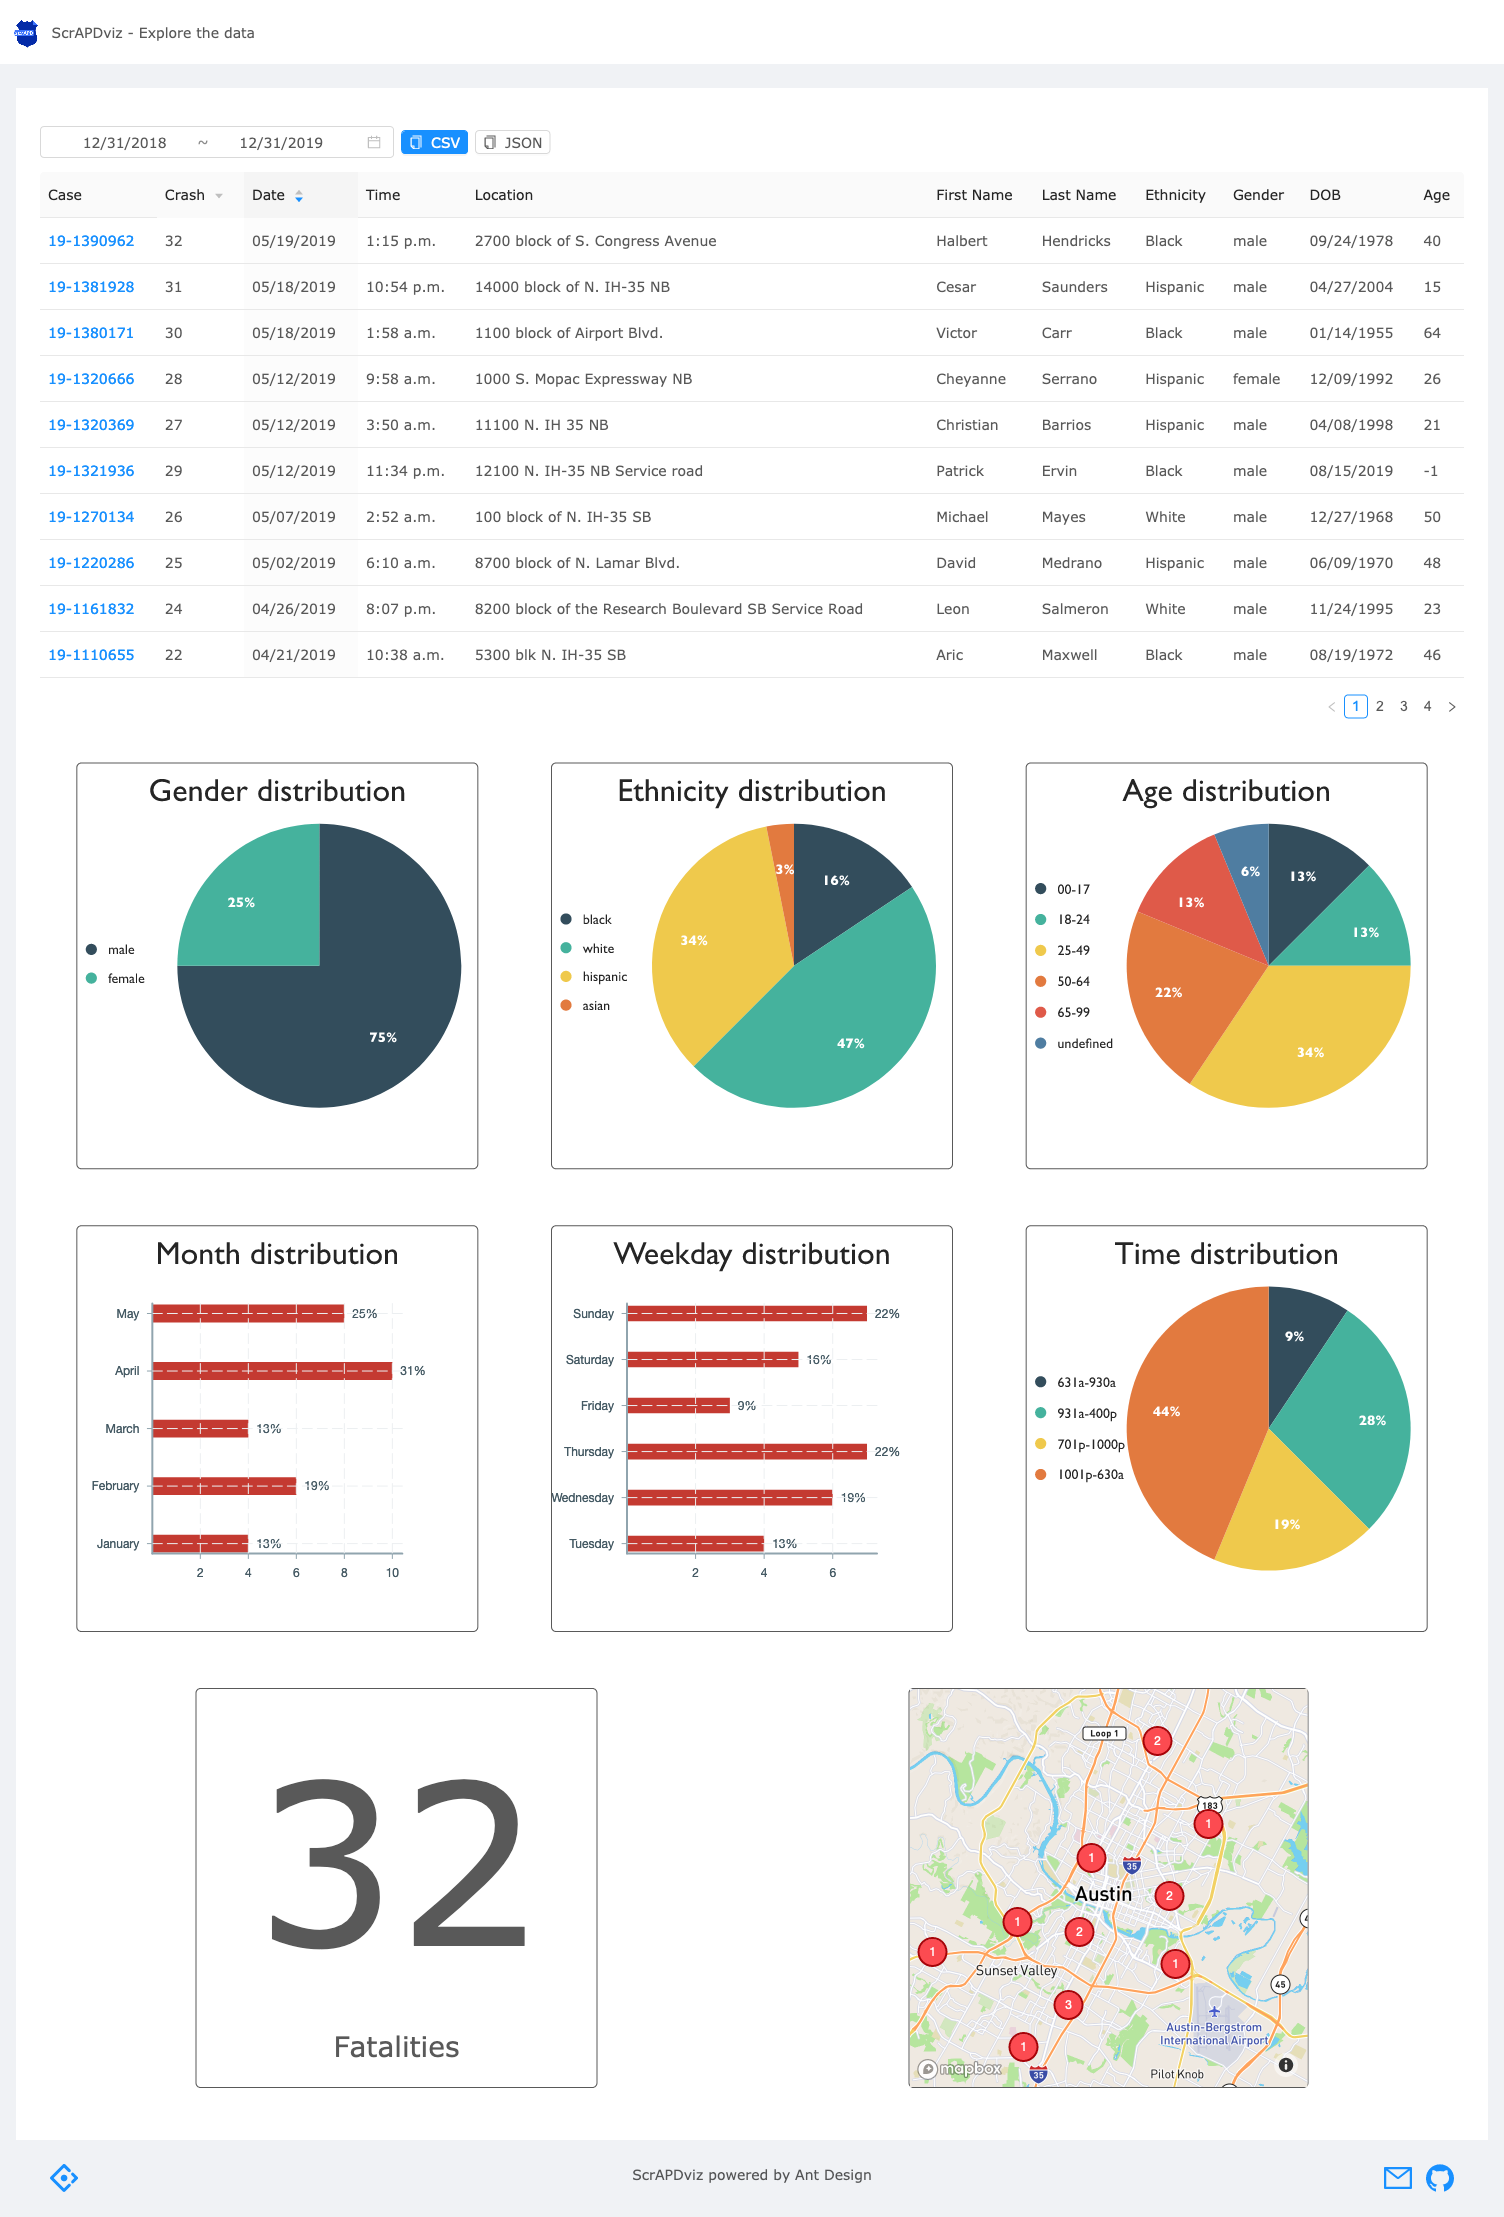
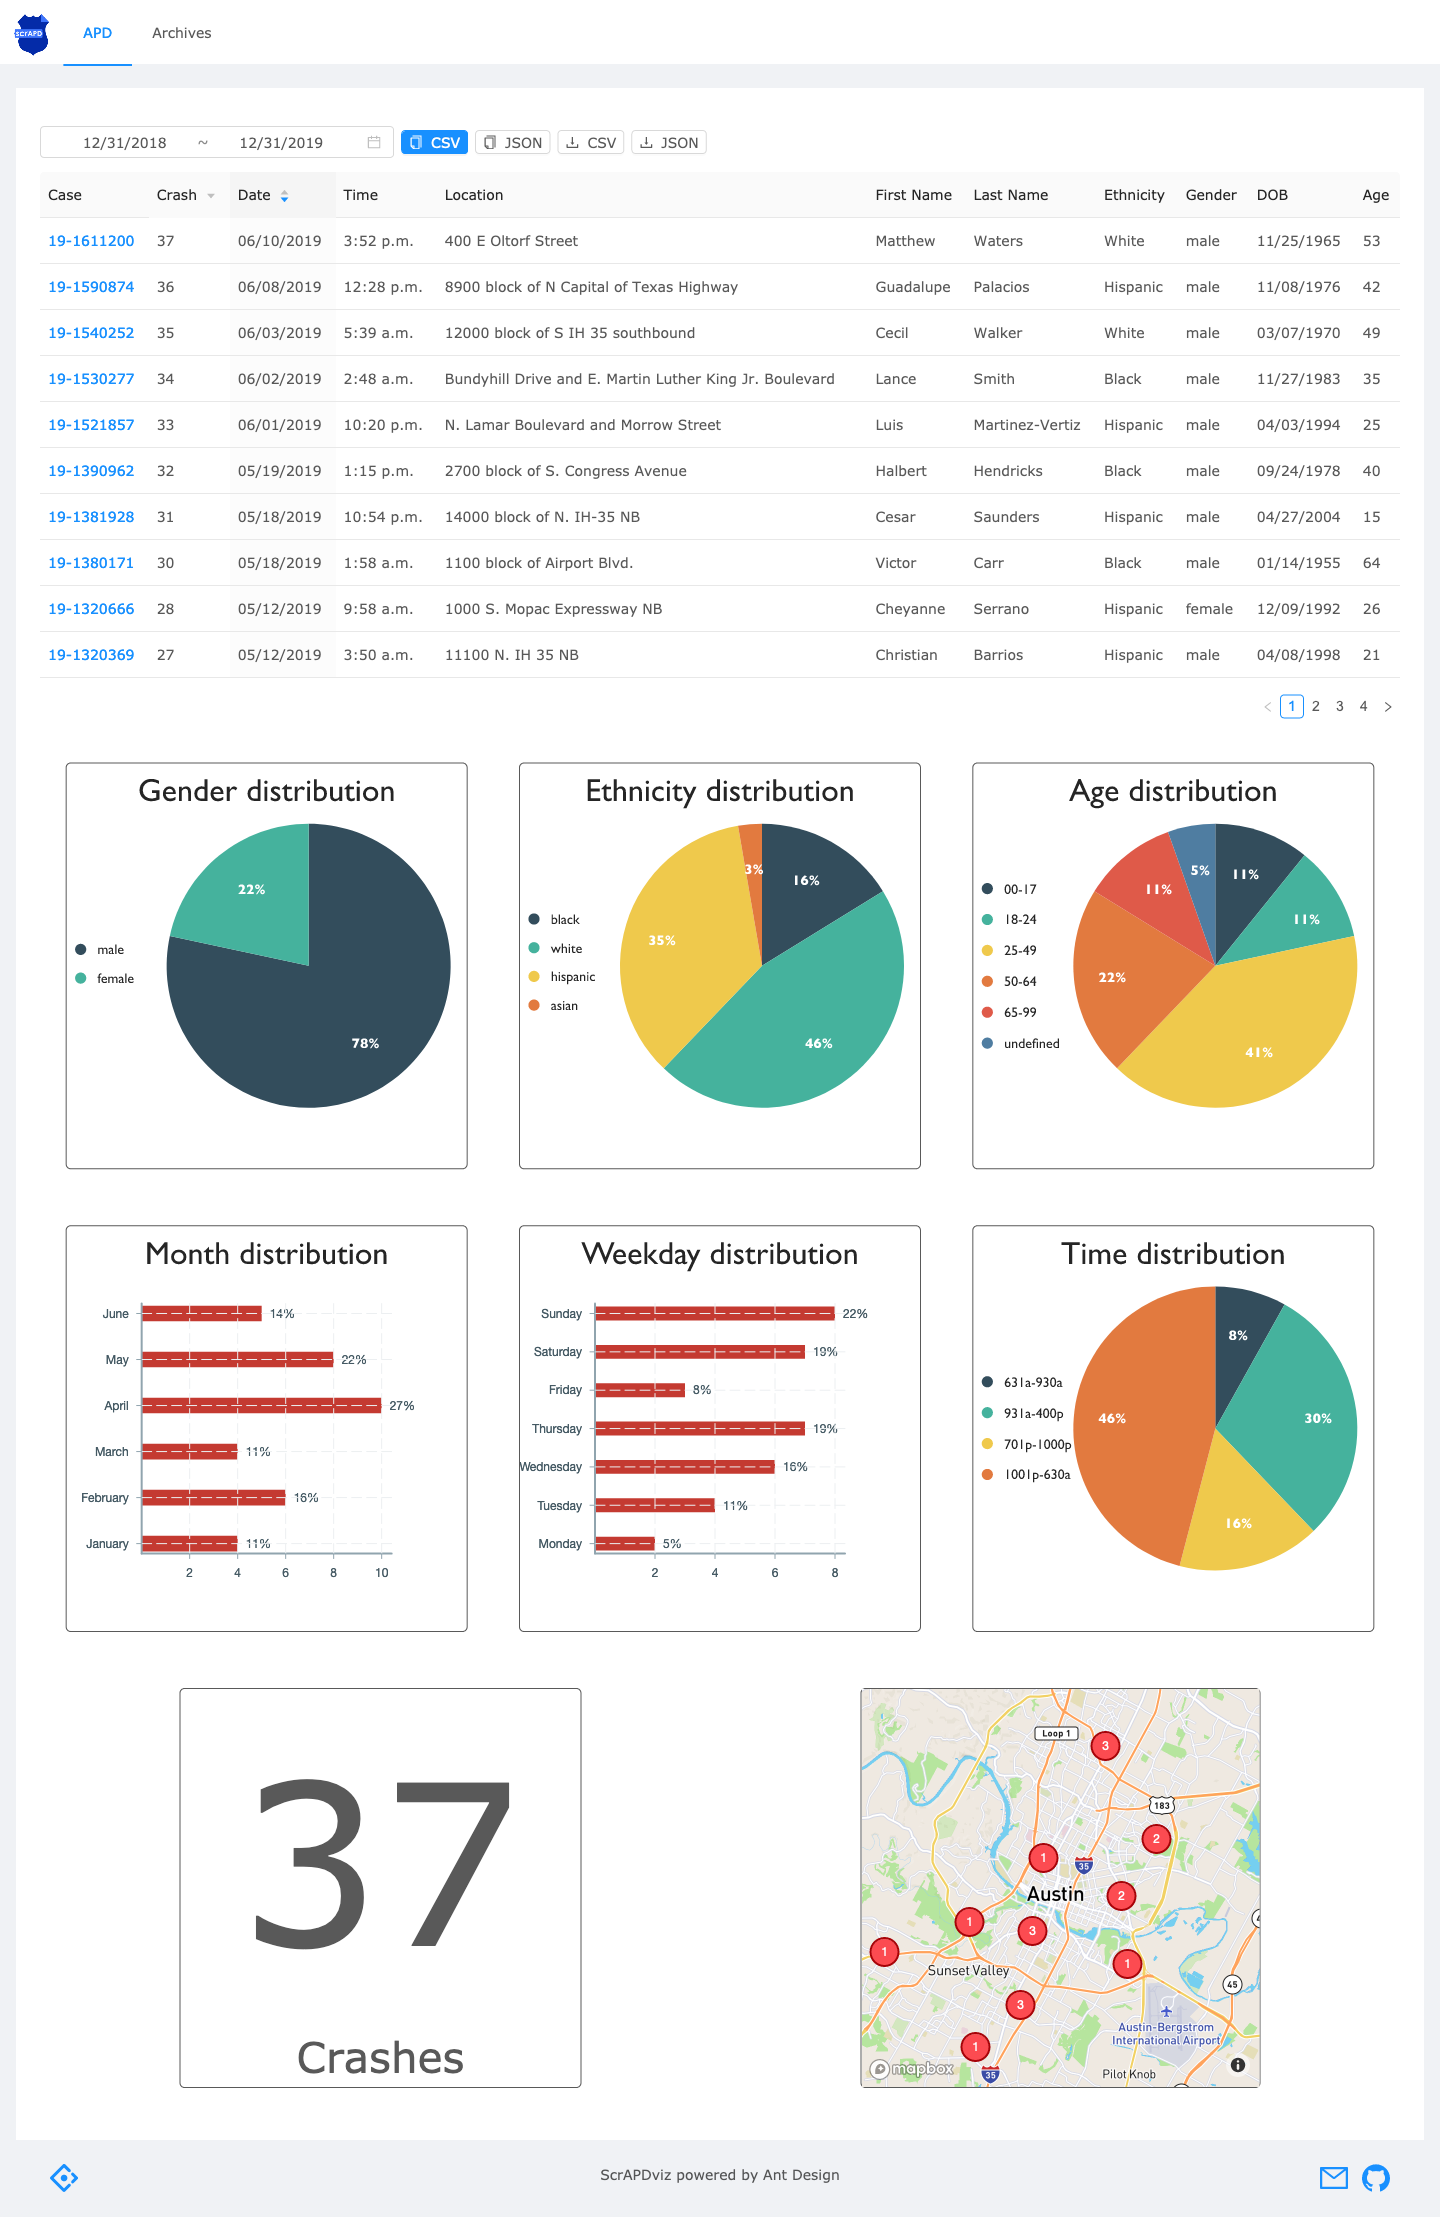
Update the users (#17)
Updates the list of organizations who are using us.

Drive-by:
* Update the ScrAPDviz screenshot to use the latest version.

diff --git a/docs/who-is-using-us.md b/docs/who-is-using-us.md
@@ -10,4 +10,10 @@ They also used ScrAPD to compile a detailed presentation of the status of the tr
 
 ## Walk austin
 
+![WalkAustin](img/logos/walkaustin.png)
+
 [Walk Austin](http://www.walkaustintx.org/) uses ScrAPD for their monthly meetings.
+
+## Farm&City
+
+[Farm&city](http://www.farmandcity.org/) uses ScrAPD.
